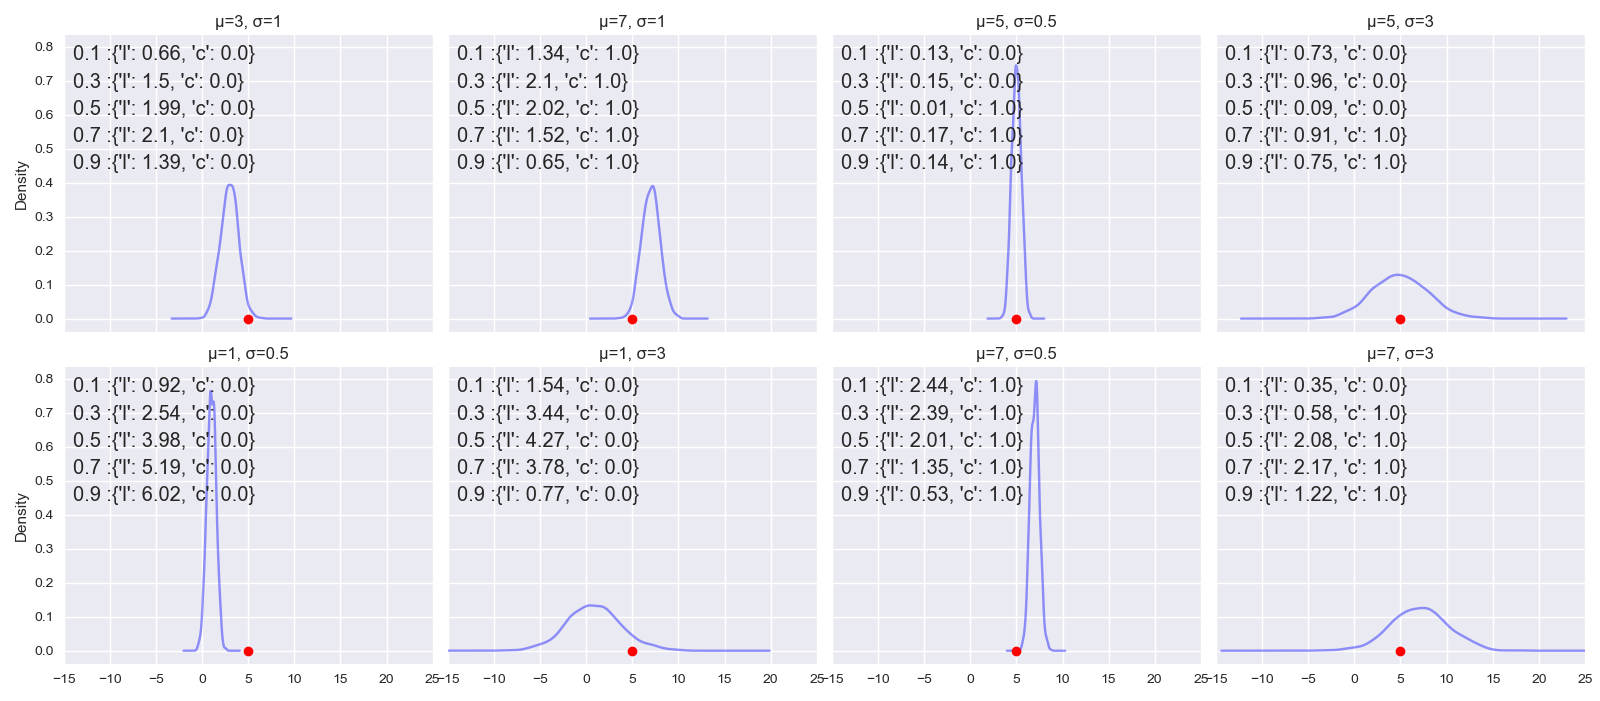
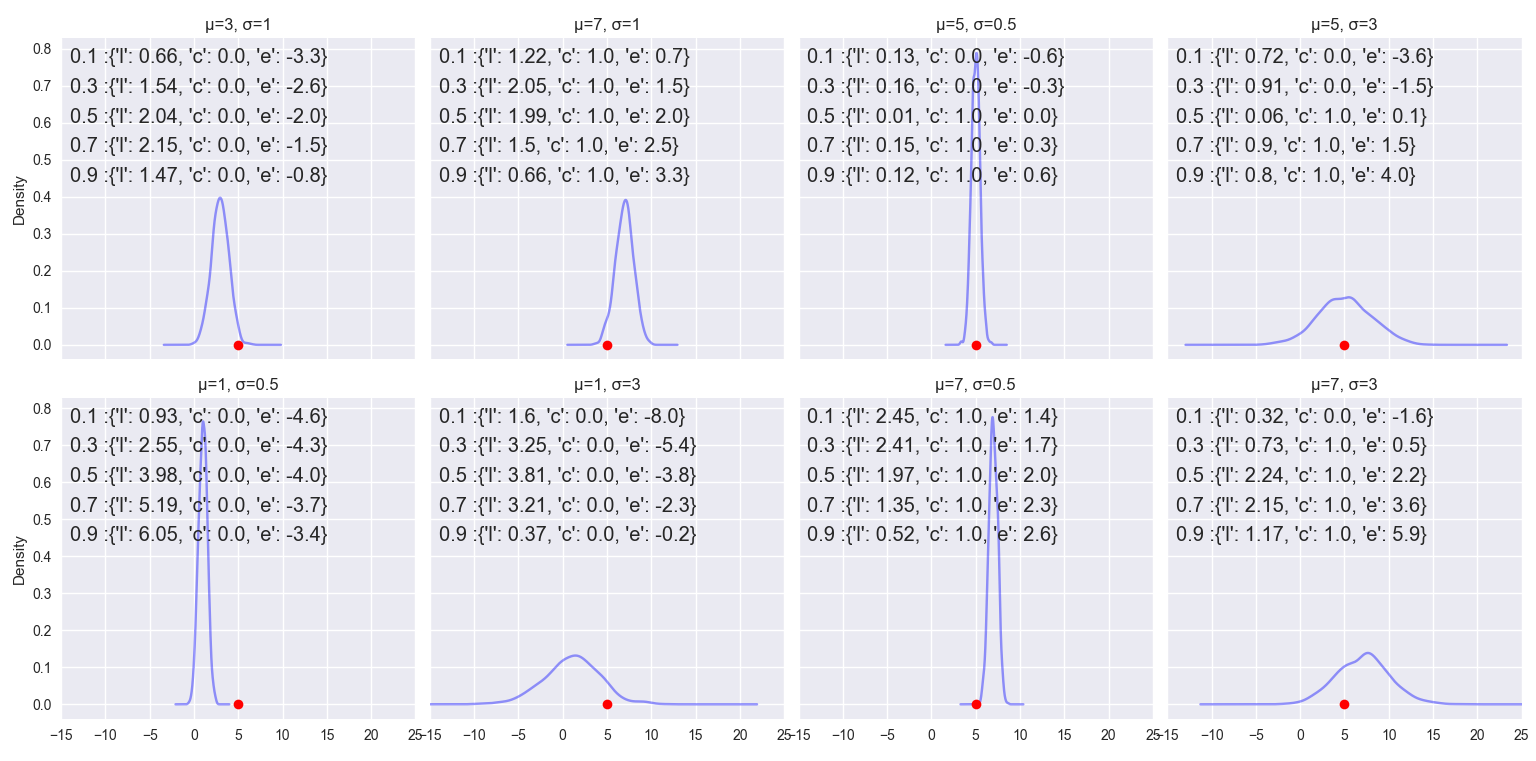
FIX: error,fig, text updated on blog

diff --git a/assets/20210308/fig_generation.py b/assets/20210308/fig_generation.py
@@ -54,7 +54,10 @@ for p, vals in preds.items():
     loss_ = {}
     for q in quantiles:
         pred = np.quantile(vals, q)
-        loss_[q]={'l':quantile_loss(target,pred,q),'c':coverage(target,pred)}
+        loss_[q]={'l':quantile_loss(target,pred,q),
+                  'c':coverage(target,pred), 
+                  'e':round(pred-target,1)
+                  }
     loss_dict[p]=loss_
 
 

diff --git a/_posts/2021-03-08-errorblog.md b/_posts/2021-03-08-errorblog.md
@@ -110,7 +110,7 @@ The figure below will help us understand the difference in weighting on error fo
 
 ![Alt text][img_0]
 
-Given a target value(=5 as _red_ dot), the plots below gives an intuition of quantile-loss and coverage for various predicted distribution(in _blue_) for `percentiles=[0.1,0.3,0.5,0.7,0.9]`.
+Given a target value(=5 as _red_ dot) and a predicted distribution( _blue_), the plots below gives an intuition of quantile-loss "l", coverage "c" and error "e"_=(prediction-target)_ for `percentiles=[0.1,0.3,0.5,0.7,0.9]`.
 
 ![Alt text][img_1]
 
@@ -145,4 +145,4 @@ With all things mentioned above, a refined forecasting system must reflect the d
 2. [Hyndman Textbook](https://otexts.com/fpp2/accuracy.html)
 
 [img_1]:/assets/20210308/loss_distro.png "Quantile Loss explained for various distributions"
-[img_0]:/assets/20210308/loss_v_err.png "Quantile Loss as a  function of Error for various quantiles"
+[img_0]:/assets/20210308/loss_v_err.png "Quantile Loss vs. error for various quantiles"
